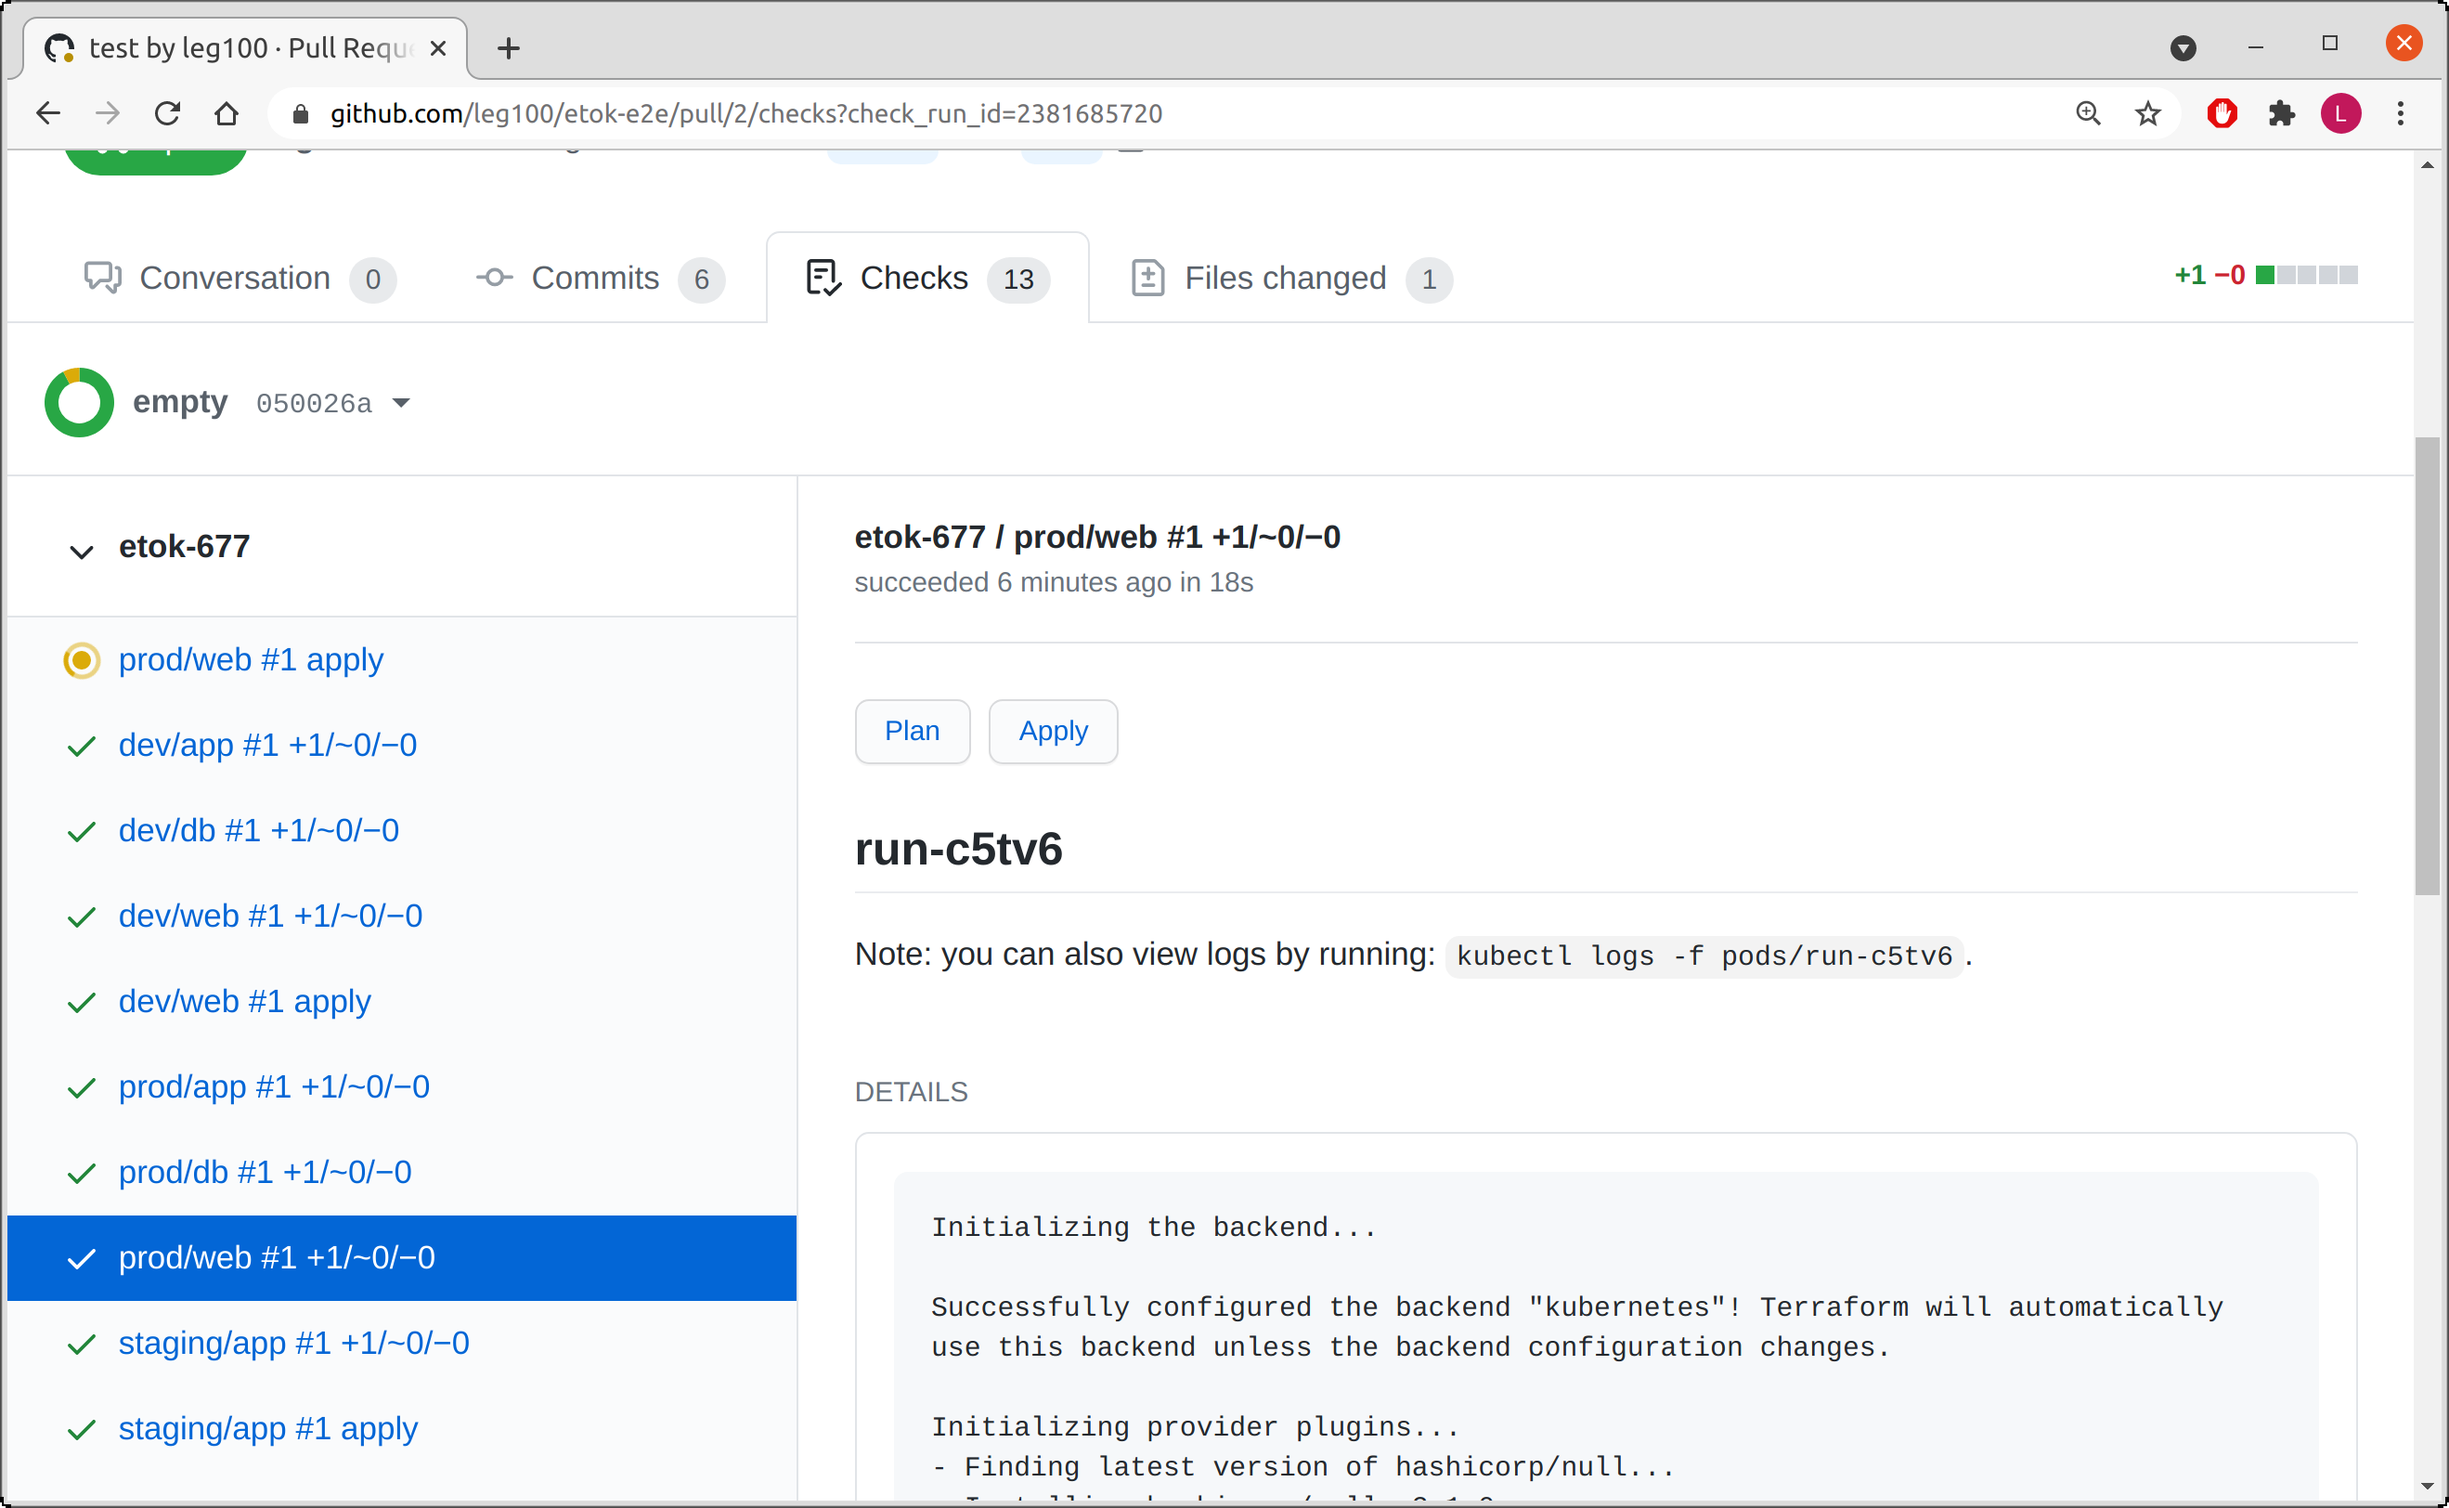
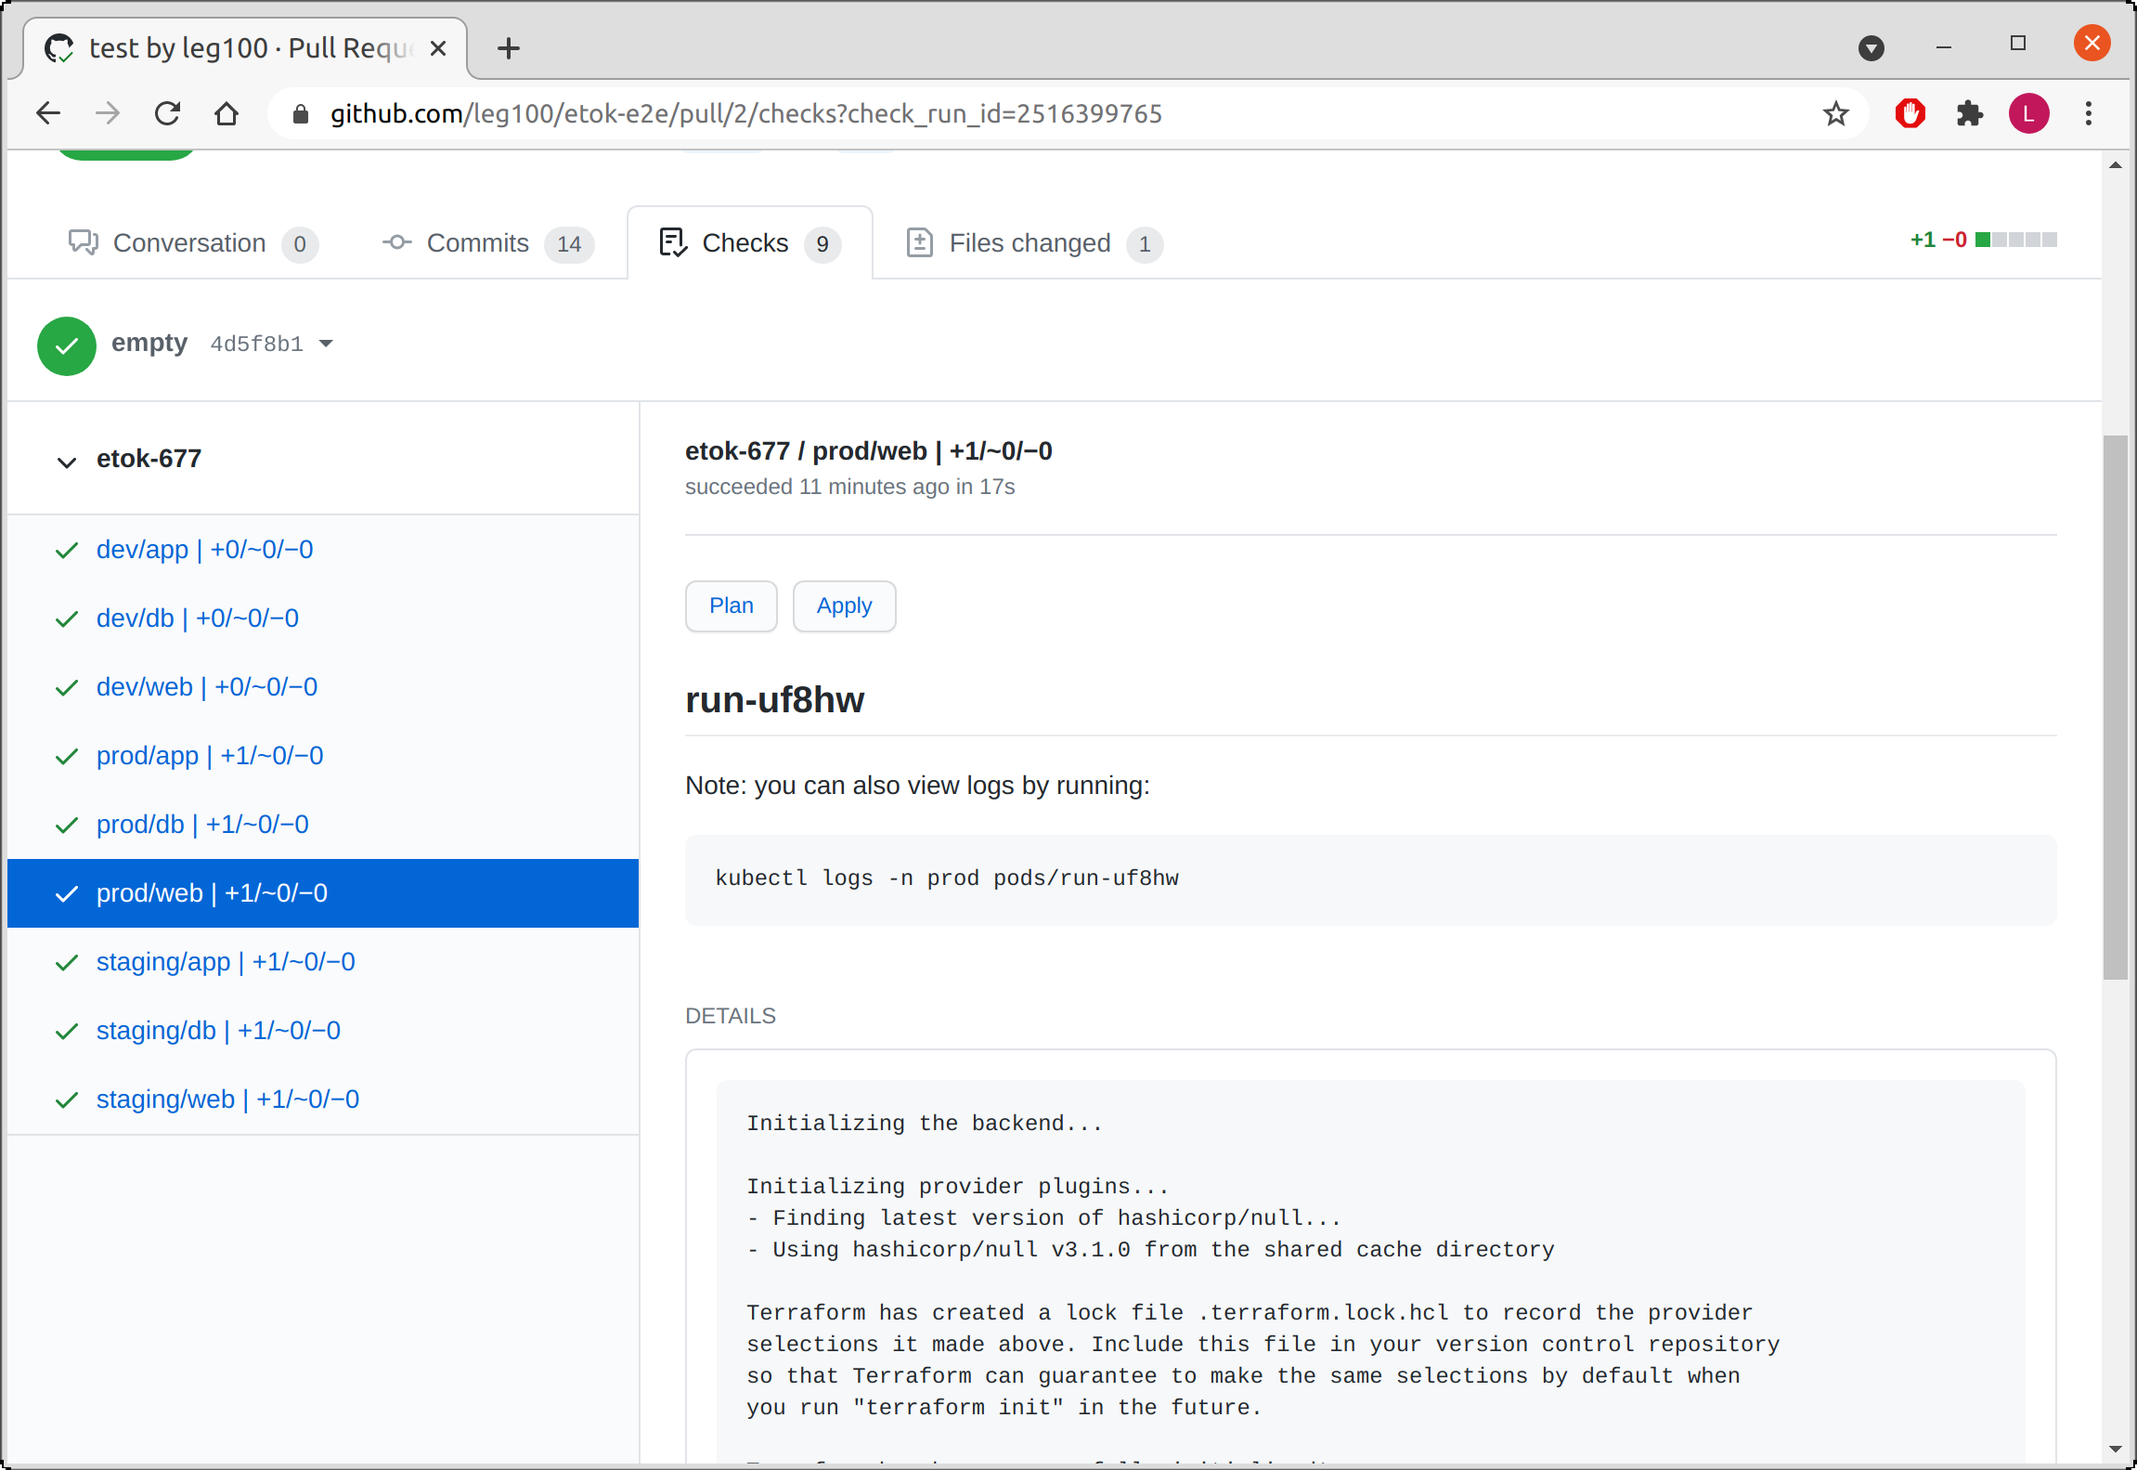
more rename

diff --git a/test/e2e/github_test.go b/test/e2e/github_test.go
@@ -97,7 +97,7 @@ func TestGithub(t *testing.T) {
 		runWithPath(t, path, "git", "push", "-f", "origin", "e2e")
 	})
 
-	var checkRun *github.CheckRun
+	var check *github.CheckRun
 	t.Run("await completion of check runs", func(t *testing.T) {
 		err := wait.Poll(time.Second, 10*time.Second, func() (bool, error) {
 			results, _, err := gclient.Checks.ListCheckRunsForRef(context.Background(), os.Getenv("GITHUB_E2E_REPO_OWNER"), os.Getenv("GITHUB_E2E_REPO_NAME"), "e2e", nil)
@@ -109,17 +109,17 @@ func TestGithub(t *testing.T) {
 				return false, nil
 			}
 
-			checkRun = results.CheckRuns[0]
+			check = results.CheckRuns[0]
 
-			checkRun.CheckSuite, _, err = gclient.Checks.GetCheckSuite(context.Background(), os.Getenv("GITHUB_E2E_REPO_OWNER"), os.Getenv("GITHUB_E2E_REPO_NAME"), checkRun.CheckSuite.GetID())
+			check.CheckSuite, _, err = gclient.Checks.GetCheckSuite(context.Background(), os.Getenv("GITHUB_E2E_REPO_OWNER"), os.Getenv("GITHUB_E2E_REPO_NAME"), check.CheckSuite.GetID())
 			require.NoError(t, err)
 
-			if checkRun.GetStatus() == "completed" {
-				require.Equal(t, "success", checkRun.GetConclusion())
+			if check.GetStatus() == "completed" {
+				require.Equal(t, "success", check.GetConclusion())
 				return true, nil
 			}
 
-			t.Logf("check run update: id=%d, status=%s", checkRun.GetID(), checkRun.GetStatus())
+			t.Logf("check run update: id=%d, status=%s", check.GetID(), check.GetStatus())
 			return false, nil
 		})
 		require.NoError(t, err)
@@ -133,7 +133,7 @@ func TestGithub(t *testing.T) {
 
 		event := github.CheckRunEvent{
 			Action:   github.String("requested_action"),
-			CheckRun: checkRun,
+			CheckRun: check,
 			Installation: &github.Installation{
 				ID: &installID,
 			},
@@ -186,14 +186,14 @@ func TestGithub(t *testing.T) {
 				return false, nil
 			}
 
-			checkRun = results.CheckRuns[0]
+			check = results.CheckRuns[0]
 
-			if checkRun.GetStatus() == "completed" {
-				require.Equal(t, "success", checkRun.GetConclusion())
+			if check.GetStatus() == "completed" {
+				require.Equal(t, "success", check.GetConclusion())
 				return true, nil
 			}
 
-			t.Logf("check run update: id=%d, status=%s", checkRun.GetID(), checkRun.GetStatus())
+			t.Logf("check run update: id=%d, status=%s", check.GetID(), check.GetStatus())
 			return false, nil
 		})
 		require.NoError(t, err)

diff --git a/cmd/github/check.go b/cmd/github/check.go
@@ -250,18 +250,6 @@ func (r *check) title() string {
 	return r.run
 }
 
-// Provide the external ID of a check run
-func (r *check) externalID() *string {
-	metadata := CheckMetadata{
-		Command:   r.command,
-		Current:   r.run,
-		Namespace: r.namespace,
-		Previous:  r.previous,
-		Workspace: r.workspace,
-	}
-	return metadata.ToStringPtr()
-}
-
 // Populate the 'summary' text field of a check run
 func (r *check) summary() string {
 	if r.createErr != nil {
@@ -272,7 +260,7 @@ func (r *check) summary() string {
 		return fmt.Sprintf("%s failed: %s\n", r.run, *r.runFailure)
 	}
 
-	return fmt.Sprintf("Note: you can also view logs by running: `kubectl logs -n %s -f pods/%s`.", r.namespace, r.run)
+	return fmt.Sprintf("Note: you can also view logs by running: \n```bash\nkubectl logs -n %s pods/%s\n```", r.namespace, r.run)
 }
 
 // Populate the 'details' text field of a check run
@@ -283,8 +271,6 @@ func (r *check) details() *string {
 	}
 
 	out := r.out
-
-	klog.InfoS("out", "size", len(r.out))
 
 	if r.stripRefreshing {
 		// Replace 'refreshing...' lines
@@ -321,12 +307,4 @@ func (r *check) details() *string {
 	trimmed := bytes.Trim(out[start:], "\n")
 
 	return github.String(textStart + exceeded + string(trimmed) + textEnd)
-}
-
-// Write implements io.Writer. Permits callers to use io funcs to write to
-// checkrun's output buffer.
-func (cr *check) Write(p []byte) (int, error) {
-	cr.out = p
-	klog.InfoS("check run output after write", "length", len(cr.out))
-	return len(p), nil
 }

diff --git a/cmd/github/check_operation.go b/cmd/github/check_operation.go
@@ -6,8 +6,7 @@ import (
 	"github.com/google/go-github/v31/github"
 )
 
-// checkOperation handles creating and updating a github check run for an etok
-// run
+// checkOperation handles creating and updating a github check for an etok run
 type checkOperation struct {
 	actions []*github.CheckRunAction
 
@@ -35,14 +34,20 @@ func (c *checkOperation) create(ctx context.Context, client *GithubClient) (int6
 		Conclusion: c.conclusion,
 		Output:     c.output(),
 		Actions:    c.actions,
-		ExternalID: c.externalID(),
+		ExternalID: (&CheckMetadata{
+			Command:   c.command,
+			Current:   c.run,
+			Namespace: c.namespace,
+			Previous:  c.previous,
+			Workspace: c.workspace,
+		}).ToStringPtr(),
 	}
 
-	checkRun, _, err := client.Checks.CreateCheckRun(ctx, c.owner, c.repo, opts)
+	check, _, err := client.Checks.CreateCheckRun(ctx, c.owner, c.repo, opts)
 	if err != nil {
 		return 0, err
 	}
-	return *checkRun.ID, nil
+	return *check.ID, nil
 }
 
 // update existing check run
@@ -54,7 +59,13 @@ func (c *checkOperation) update(ctx context.Context, client *GithubClient, id in
 		Conclusion: c.conclusion,
 		Output:     c.output(),
 		Actions:    c.actions,
-		ExternalID: c.externalID(),
+		ExternalID: (&CheckMetadata{
+			Command:   c.command,
+			Current:   c.run,
+			Namespace: c.namespace,
+			Previous:  c.previous,
+			Workspace: c.workspace,
+		}).ToStringPtr(),
 	}
 
 	_, _, err := client.Checks.UpdateCheckRun(ctx, c.owner, c.repo, id, opts)

diff --git a/cmd/github/run_controller.go b/cmd/github/run_controller.go
@@ -79,10 +79,13 @@ func (r *runReconciler) Reconcile(ctx context.Context, req ctrl.Request) (ctrl.R
 		return ctrl.Result{}, nil
 	}
 
-	// Construct check-run from run resource
-	checkRun, err := newCheckFromResource(&run, nil)
+	// Construct check from run resource
+	check, err := newCheckFromResource(&run, nil)
 	if err != nil {
-		return ctrl.Result{}, err
+		log.Error(err, "unable to create check obj from run resource")
+		// Don't retry upon error - there is something wrong with the run
+		// resource itself that cannot be corrected.
+		return ctrl.Result{}, nil
 	}
 
 	// Stream logs from pod and copy to check run obj
@@ -98,7 +101,7 @@ func (r *runReconciler) Reconcile(ctx context.Context, req ctrl.Request) (ctrl.R
 			return ctrl.Result{}, err
 		}
 		// Copy logs into check-run's buffer
-		checkRun.out = out
+		check.out = out
 	}
 
 	// Get github install ID from run
@@ -108,7 +111,7 @@ func (r *runReconciler) Reconcile(ctx context.Context, req ctrl.Request) (ctrl.R
 	}
 
 	// Send checkrun obj to github
-	if err := r.send(installID, checkRun); err != nil {
+	if err := r.send(installID, check); err != nil {
 		return ctrl.Result{}, err
 	}
 

diff --git a/cmd/github/check_output_template.go b/cmd/github/check_output_template.go
@@ -6,15 +6,15 @@ import (
 )
 
 var (
-	markdownFuncs          = make(map[string]interface{})
-	checkRunOutputTemplate *template.Template
+	markdownFuncs       = make(map[string]interface{})
+	checkOutputTemplate *template.Template
 )
 
 func init() {
 	markdownFuncs["quoted"] = func(s string) string { return "`" + s + "`" }
 	markdownFuncs["textBlock"] = func(s string) string { return "```text\n" + s + "```" }
 
-	checkRunOutputTemplate = template.Must(template.New("summary").Funcs(markdownFuncs).Parse(`
+	checkOutputTemplate = template.Must(template.New("summary").Funcs(markdownFuncs).Parse(`
 {{ if ne .RunOutput "" }}
 {{ .RunOutput | textBlock }}
 {{ end }}
@@ -24,8 +24,8 @@ func init() {
 `))
 }
 
-func generateCheckRunOutput(out io.Writer, runOutput, errOutput string) error {
-	return checkRunOutputTemplate.Execute(out, struct {
+func generateCheckOutput(out io.Writer, runOutput, errOutput string) error {
+	return checkOutputTemplate.Execute(out, struct {
 		RunOutput string
 		ErrOutput string
 	}{

diff --git a/cmd/github/check_test.go b/cmd/github/check_test.go
@@ -23,7 +23,7 @@ func TestCheckRunSummary(t *testing.T) {
 				run:       "run-12345",
 				namespace: "dev",
 			},
-			want: "Note: you can also view logs by running: `kubectl logs -n dev -f pods/run-12345`.",
+			want: "Note: you can also view logs by running: \n```bash\nkubectl logs -n dev pods/run-12345\n```",
 		},
 		{
 			name: "create error",

diff --git a/docs/content/docs/reference/github_app.md b/docs/content/docs/reference/github_app.md
@@ -22,10 +22,10 @@ The deployment runs in a dedicated namespace, set via the namespace flag `--name
 
 ## Operation
 
-Each commit pushed to a repository triggers a terraform plan. The app looks for workspaces connected to the repository and for each connected workspace it'll trigger a plan.
+Each commit pushed to a repository triggers terraform plans. The app looks for workspaces connected to the repository and for each connected workspace it'll trigger a plan.
 
 {{< hint info >}}
-For a plan, Etok executes `terraform init` followed by `terraform plan`.
+For a plan, Etok executes `terraform init` followed by `terraform plan -out=/plans/<plan>`.
 {{< /hint >}}
 
 If you want to re-run a plan, click the `Plan` button.
@@ -33,22 +33,18 @@ If you want to re-run a plan, click the `Plan` button.
 Should you want to apply the plan, click the `Apply` button, which will run `terraform apply` using the plan file produced from the plan.
 
 {{< hint info >}}
-For an apply, Etok executes `terraform init` followed by `terraform apply`.
+For an apply, Etok executes `terraform init` followed by `terraform apply /plans/<plan>`.
 {{< /hint >}}
 
 ## Notation
 
-Each plan is summarised with the following notation:
+A completed plan is summarised with the following notation:
 
 ```text
-[NAMESPACE]/[WORKSPACE] #[ITERATION] +[ADDITIONS]/~[UPDATES]/−[DELETIONS]
+[NAMESPACE]/[WORKSPACE] +[ADDITIONS]/~[UPDATES]/−[DELETIONS]
 ```
 
-Each re-run of a plan results in a new, incremented, iteration, starting with `#1`.
-
-Once a plan completes, the number of proposed additions, updates and deletions is provided.
-
-An apply uses a similar notation, with its iteration corresponding to its plan.
+`[ADDITIONS]`, `[UPDATES]` and `[DELETIONS]` corresponds to the number of terraform resources the plan proposes to add, update, or delete respectively.
 
 ## Restrictions
 
